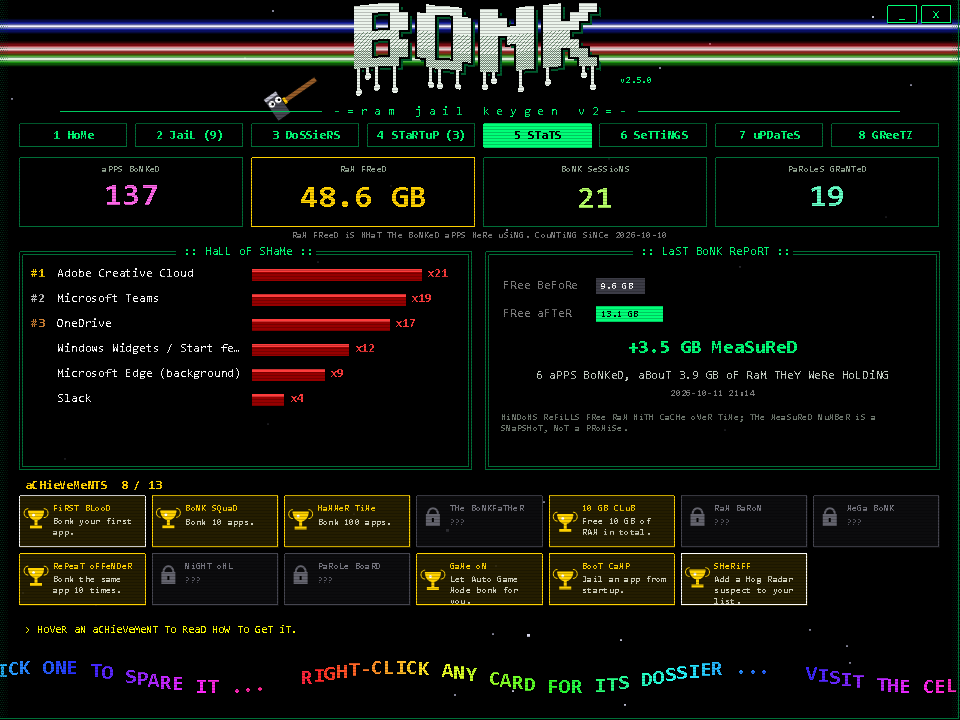
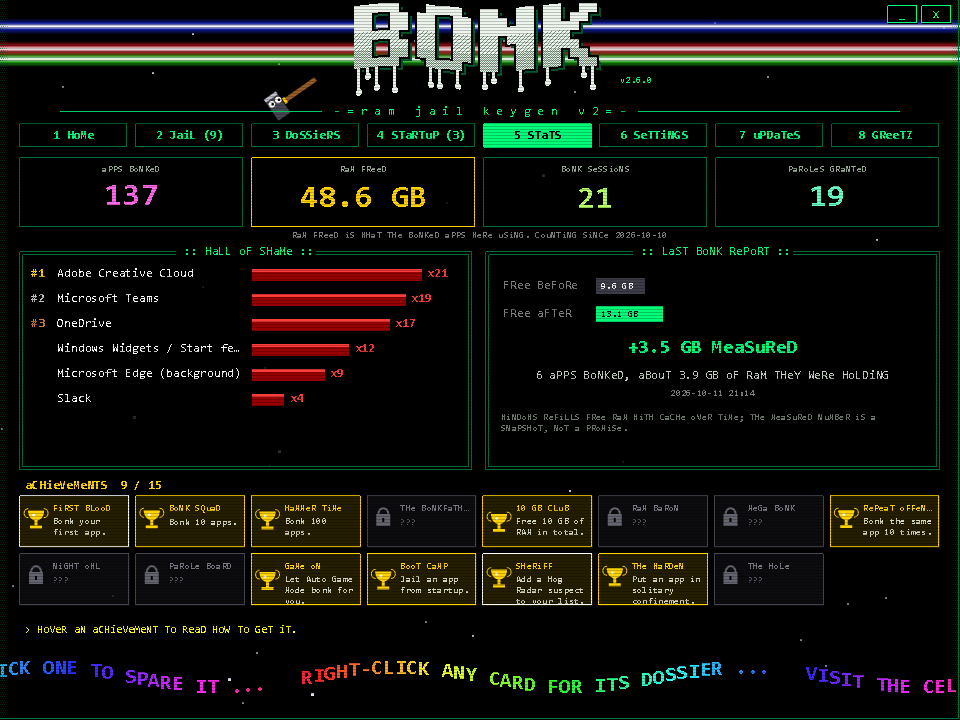
v2.6.0: Solitary Confinement
Keep self-restarting apps down.

- 3 second jail watch: a jailed app that is running again is an escape.
  Entries with solitary=true are killed again and the attempt is counted in
  bonk-state.json; others raise a one-time JAILBREAK notice.
- Parent-process check: if Explorer launched it (user opened it), it is a
  voluntary parole and left running.
- Dark solitary cells, SOLO toggles on cells and in dossiers, siren + banner,
  THE WARDEN / THE HOLE achievements, solitary setting.
- Verified on an isolated copy: background respawn killed within one tick and
  counted; Explorer launch paroled and left running.

Changed region(s): [[0.0312, 0.6722, 0.8438, 0.8556], [0.8438, 0.7028, 0.9688, 0.7639]]

diff --git a/bonk-ui.cs b/bonk-ui.cs
@@ -335,6 +335,14 @@ namespace BonkMode
             return ToPcm(b, 0.66f);
         }
 
+        public static short[] Alarm()
+        {
+            int half = (int)(R * 0.16);
+            float[] b = new float[half * 4];
+            for (int k = 0; k < 4; k++) Square(b, k * half, half, k % 2 == 0 ? 880 : 660, 0.5, 0.18, false);
+            return ToPcm(b, 0.45f);
+        }
+
         public static short[] Fanfare()
         {
             int[] notes = { 67, 72, 76, 79, 76, 79, 84 };
@@ -411,7 +419,8 @@ namespace BonkMode
     {
         public string Label, Names, Relaunch;
         public int MB, Procs, Hash, Number, Cpu10, IoKB;
-        public bool Enabled, Running, Jailed, Suspect;
+        public bool Enabled, Running, Jailed, Suspect, Solitary;
+        public int Escapes;
         public string Proc;
         public RectangleF Rect;
         public float Shake, Flash, Bars, ShownMB, Nervous;
@@ -463,6 +472,7 @@ namespace BonkMode
         public event Action GameCancelClicked;
         public event Action<string, string> SuspectAction;
         public event Action<string, bool> StartupToggle;
+        public event Action<string, bool> SolitaryToggled;
         public event Action StartupRefresh;
 
         public static bool NoAudio;
@@ -508,6 +518,7 @@ namespace BonkMode
             new[] { "powerPlan", "bool", "Turbo power plan", "Switch Windows to High performance while bonked; your old plan comes back on parole." },
             new[] { "radar", "bool", "Hog radar", "Flag heavy apps that are not on your list yet. Sweeps every 30 seconds." },
             new[] { "radarMB", "cycle:200,400,800,1500", "Radar threshold", "How much RAM an unlisted app needs before it becomes a suspect." },
+            new[] { "solitary", "bool", "Solitary confinement", "Jailed apps marked SOLO get shut straight back down if they restart themselves. If you open one yourself, it's paroled instead." },
             new[] { "hotkeys", "bool", "Global hotkeys", "Ctrl+Alt+B bonks, Ctrl+Alt+P paroles, Ctrl+Alt+K opens this window. Works inside games." },
             new[] { "autostart", "bool", "Start with Windows", "Put the hammer in the tray at login." },
             new[] { "autoUpdate", "bool", "Check for updates", "Look for a new release on GitHub when this opens and every 6h." }
@@ -530,7 +541,7 @@ namespace BonkMode
         List<Hit> zones = new List<Hit>(), zonesNext = new List<Hit>();
 
         ChipAudio audio;
-        short[] sfxBonk, sfxClick, sfxBlip, sfxWhoosh, sfxParole, sfxSlam, sfxFanfare;
+        short[] sfxBonk, sfxClick, sfxBlip, sfxWhoosh, sfxParole, sfxSlam, sfxFanfare, sfxAlarm;
         Bitmap logo, overlay, frame, bricks, plasma;
         Font fSmall, fTiny, fName, fTileBig, fNfo, fNfoB, fBtn, fScroll, fBanner, fPop, fSub, fBig, fCount;
         StringFormat sfCenter, sfWrap, sfLeftMid;
@@ -615,11 +626,11 @@ namespace BonkMode
             settings["music"] = "True"; settings["volume"] = "60"; settings["sfx"] = "True"; settings["shake"] = "True";
             settings["scanlines"] = "True"; settings["hammer"] = "normal"; settings["polite"] = "4";
             settings["autostart"] = "False"; settings["autoUpdate"] = "True";
-            settings["gameMode"] = "ask"; settings["radar"] = "True"; settings["radarMB"] = "400"; settings["profile"] = "gaming"; settings["powerPlan"] = "False"; settings["hotkeys"] = "True";
+            settings["gameMode"] = "ask"; settings["radar"] = "True"; settings["radarMB"] = "400"; settings["profile"] = "gaming"; settings["powerPlan"] = "False"; settings["hotkeys"] = "True"; settings["solitary"] = "True";
 
             if (!NoAudio) { try { audio = new ChipAudio(); } catch { audio = null; } }
             sfxBonk = Synth.Bonk(); sfxClick = Synth.Click(); sfxBlip = Synth.Blip(); sfxWhoosh = Synth.Whoosh();
-            sfxParole = Synth.Parole(); sfxSlam = Synth.Slam(); sfxFanfare = Synth.Fanfare();
+            sfxParole = Synth.Parole(); sfxSlam = Synth.Slam(); sfxFanfare = Synth.Fanfare(); sfxAlarm = Synth.Alarm();
             ReadRam();
 
             timer.Interval = 30;
@@ -681,9 +692,9 @@ namespace BonkMode
 
         public void PreviewUpdate(string remote, string log) { FinishCheck(remote, log, null); }
 
-        public void SetApps(string[] labels, int[] mb, bool[] enabled, bool[] running, bool[] jailed, int[] procs, string[] names, string[] relaunch, int[] cpu10, int[] iokb)
+        public void SetApps(string[] labels, int[] mb, bool[] enabled, bool[] running, bool[] jailed, int[] procs, string[] names, string[] relaunch, int[] cpu10, int[] iokb, bool[] solitary, int[] escapes)
         {
-            if (hammerIdx >= 0) { pending = new object[] { labels, mb, enabled, running, jailed, procs, names, relaunch, cpu10, iokb }; return; }
+            if (hammerIdx >= 0) { pending = new object[] { labels, mb, enabled, running, jailed, procs, names, relaunch, cpu10, iokb, solitary, escapes }; return; }
             Dictionary<string, AppInfo> old = new Dictionary<string, AppInfo>();
             foreach (AppInfo x in apps) old[x.Label] = x;
             apps.Clear();
@@ -700,7 +711,9 @@ namespace BonkMode
                 a.MB = mb[i]; a.Enabled = enabled[i]; a.Running = running[i];
                 a.Jailed = jailed[i] && !running[i];
                 a.Procs = procs[i]; a.Names = names[i]; a.Relaunch = relaunch[i];
-                a.Cpu10 = cpu10[i]; a.IoKB = iokb[i];
+                a.Cpu10 = cpu10[i]; a.IoKB = iokb[i]; a.Solitary = solitary[i];
+                if (old.ContainsKey(labels[i]) && escapes[i] > a.Escapes) EscapeFoiled(a);
+                a.Escapes = escapes[i];
                 if (a.Running)
                 {
                     a.History.Add(a.MB); if (a.History.Count > 72) a.History.RemoveAt(0);
@@ -773,7 +786,8 @@ namespace BonkMode
                 }
                 m.BubbleT -= fdt; m.NextBubble -= fdt;
                 if (m.NextBubble <= 0) { m.Bubble = Bubbles[rnd.Next(Bubbles.Length)]; m.BubbleT = 2.4f; m.NextBubble = 5 + (float)rnd.NextDouble() * 9; }
-                if (m.BubbleT <= 0)
+                if (m.BubbleT <= 0 && m.App.Solitary) { m.X += (130 - m.X) * (float)Math.Min(1, dt * 2); }
+                else if (m.BubbleT <= 0)
                 {
                     m.X += m.Dir * m.Speed * fdt; m.Walk += fdt * 9;
                     if (m.X < 22) { m.X = 22; m.Dir = 1; }
@@ -812,7 +826,7 @@ namespace BonkMode
             if (pending != null)
             {
                 object[] p = pending; pending = null;
-                SetApps((string[])p[0], (int[])p[1], (bool[])p[2], (bool[])p[3], (bool[])p[4], (int[])p[5], (string[])p[6], (string[])p[7], (int[])p[8], (int[])p[9]);
+                SetApps((string[])p[0], (int[])p[1], (bool[])p[2], (bool[])p[3], (bool[])p[4], (int[])p[5], (string[])p[6], (string[])p[7], (int[])p[8], (int[])p[9], (bool[])p[10], (int[])p[11]);
             }
             else { SyncInmates(); LayoutHome(); }
         }
@@ -846,6 +860,17 @@ namespace BonkMode
             }
             if (fresh) { radarPing = 0; Play(sfxBlip); }
             if (hammerIdx < 0) LayoutHome();
+        }
+
+        void EscapeFoiled(AppInfo a)
+        {
+            Play(sfxAlarm);
+            if (shakeOn) shake = Math.Max(shake, 0.5f);
+            bannerText = a.Solitary ? "eSCaPe FoiLeD!" : "JaiLBReaK!";
+            bannerSub = Leet(a.Solitary ? a.Label + " tried to sneak out. back in the hole." : a.Label + " restarted itself. mark it solo to stop that.");
+            bannerT = 0;
+            Inmate m;
+            if (inmates.TryGetValue(a.Label, out m)) { m.Bubble = a.Solitary ? "BaCK iN THe HoLe..." : "i'M ouT!"; m.BubbleT = 3; }
         }
 
         AppInfo Find(string label)
@@ -1229,6 +1254,17 @@ namespace BonkMode
                 return;
             }
             if (id == "startup-refresh") { Play(sfxBlip); if (StartupRefresh != null) StartupRefresh(); return; }
+            if (id.StartsWith("solitary:"))
+            {
+                AppInfo a = Find(id.Substring(9));
+                if (a == null) return;
+                a.Solitary = !a.Solitary;
+                Play(a.Solitary ? sfxSlam : sfxClick);
+                if (a.Solitary && shakeOn) shake = 0.3f;
+                status = Leet(a.Solitary ? a.Label + " is in solitary. no more sneaking back." : a.Label + " is back in a normal cell.");
+                if (SolitaryToggled != null) SolitaryToggled(a.Label, a.Solitary);
+                return;
+            }
             if (id.StartsWith("startup:"))
             {
                 if (Busy) return;
@@ -1626,7 +1662,7 @@ namespace BonkMode
 
             if (a.Bars > 0) DrawBars(g, r, a.Bars);
 
-            string chip = jailed ? "JaiLeD" : target ? "TaRGeT" : "SaFe";
+            string chip = jailed ? (a.Solitary ? "SoLiTaRY" : "JaiLeD") : target ? "TaRGeT" : "SaFe";
             Color cc = jailed ? Color.FromArgb(170, 170, 185) : target ? Red : Green;
             SizeF cs = g.MeasureString(chip, fTiny);
             g.FillRectangle(B(cc), r.X + 5, r.Y + 5, cs.Width, 13);
@@ -1777,6 +1813,16 @@ namespace BonkMode
         {
             AppInfo a = m.App;
             g.DrawImage(bricks, cx, cy, cw, 120);
+            if (a.Solitary)
+            {
+                // the hole: lights almost out, one flickering bulb
+                g.FillRectangle(B(Color.FromArgb(232, 4, 2, 2)), cx, cy, cw, 120);
+                g.DrawString("S O L i T a R Y", fTiny, B(Color.FromArgb(120, 150, 20, 20)), new RectangleF(cx, cy + 62, cw, 14), sfCenter);
+                int glow = (int)(t * 7 + a.Hash) % 9 == 0 ? 40 : 110;
+                g.FillEllipse(B(Color.FromArgb(glow / 3, 255, 220, 120)), cx + cw / 2 - 30, cy + 2, 60, 50);
+                g.FillEllipse(B(Color.FromArgb(glow + 100, 255, 230, 140)), cx + cw / 2 - 4, cy + 8, 8, 8);
+                g.DrawLine(P(Color.FromArgb(80, 80, 80)), cx + cw / 2, cy, cx + cw / 2, cy + 8);
+            }
             g.FillRectangle(B(Color.FromArgb(40, 40, 46)), cx, cy + 104, cw, 16);
             // cot and bucket, for ambience
             g.FillRectangle(B(Color.FromArgb(90, 70, 50)), cx + 110, cy + 92, 52, 8);
@@ -1814,7 +1860,14 @@ namespace BonkMode
             g.DrawRectangle(P(Color.FromArgb(150, 70, 70)), cx, py, cw - 1, 73);
             g.DrawString("iNMaTe #" + a.Number, fTiny, B(Gold), cx + 5, py + 3);
             g.DrawString(a.Label, fName, Brushes.White, new RectangleF(cx + 5, py + 15, cw - 10, 28), sfWrap);
-            g.DrawString(Crimes[a.Hash % Crimes.Length], fTiny, B(Color.FromArgb(160, 160, 170)), new RectangleF(cx + 5, py + 42, cw - 10, 12), sfLeftMid);
+            if (a.Solitary) g.DrawString(Leet("solitary :: " + a.Escapes + " escape attempts"), fTiny, B(Red), new RectangleF(cx + 5, py + 42, cw - 10, 12), sfLeftMid);
+            else g.DrawString(Crimes[a.Hash % Crimes.Length], fTiny, B(Color.FromArgb(160, 160, 170)), new RectangleF(cx + 5, py + 42, cw - 10, 12), sfLeftMid);
+            RectangleF solo = new RectangleF(cx + cw - 46, py + 2, 42, 13);
+            bool soloHot = Hot("solitary:" + a.Label);
+            g.FillRectangle(B(a.Solitary ? Red : soloHot ? Color.FromArgb(90, 20, 20) : Color.FromArgb(30, 30, 36)), solo);
+            g.DrawString("SoLo", fTiny, B(a.Solitary ? Color.Black : Color.FromArgb(220, 120, 120)), solo, sfCenter);
+            RectangleF soloVis = RectangleF.Intersect(solo, area);
+            if (soloVis.Height > 4 && !m.Escaping) Zone(soloVis, "solitary:" + a.Label);
             RectangleF br = new RectangleF(cx + 30, py + 55, cw - 60, 16);
             bool can = !Busy && !m.Escaping;
             bool hot = can && Hot("paroleone:" + a.Label);
@@ -1990,6 +2043,7 @@ namespace BonkMode
             fy = Field(g, "STaTuS", stat, fx, fy, wText, s.Running ? Green : Color.Gray);
             fy = Field(g, "SeNTeNCe", sentence, fx, fy, wText, s.Enabled ? Red : Green);
             fy = Field(g, "RaM NoW", s.Running ? FormatSize(s.MB) : "0 MB", fx, fy, wText, Color.Yellow);
+            if (s.Jailed || s.Escapes > 0 || s.Solitary) fy = Field(g, "eSCaPe aTTeMPTS", s.Escapes + (s.Solitary ? "  ::  iN SoLiTaRY" : ""), fx, fy, wText, s.Solitary ? Red : Color.FromArgb(200, 210, 200));
             fy = Field(g, "CPU / DiSK", s.Running ? FormatCpu(s.Cpu10) + " oF YouR CPU  ::  " + FormatIo(s.IoKB) + " DiSK" : "-", fx, fy, wText, s.Cpu10 >= 80 ? Color.FromArgb(255, 150, 60) : Color.FromArgb(200, 210, 200));
             fy = Math.Max(fy, mug.Bottom + 6);
             fy = Field(g, "aLiaSeS", s.Names, fx, fy, panel.Width - 32, Color.FromArgb(200, 210, 200));
@@ -2023,9 +2077,10 @@ namespace BonkMode
 
             float by2 = panel.Bottom - 40;
             bool free = !Busy;
-            Button(g, new RectangleF(panel.X + 16, by2, 132, 28), s.Enabled ? "[ SPaRe iT ]" : "[ SeNTeNCe ]", "toggle:" + s.Label, Color.FromArgb(0, 40, 20), Green, free && !s.Jailed);
-            Button(g, new RectangleF(panel.X + 156, by2, 132, 28), "[ BoNK NoW ]", "bonkone:" + s.Label, Color.FromArgb(120, 0, 0), Color.Yellow, free && s.Running && !s.Jailed);
-            Button(g, new RectangleF(panel.X + 296, by2, 142, 28), "[ PaRoLe ]", "paroleone:" + s.Label, Color.FromArgb(0, 40, 20), Green, free && s.Jailed);
+            Button(g, new RectangleF(panel.X + 16, by2, 100, 28), s.Enabled ? "SPaRe" : "SeNTeNCe", "toggle:" + s.Label, Color.FromArgb(0, 40, 20), Green, free && !s.Jailed);
+            Button(g, new RectangleF(panel.X + 122, by2, 100, 28), "BoNK!", "bonkone:" + s.Label, Color.FromArgb(120, 0, 0), Color.Yellow, free && s.Running && !s.Jailed);
+            Button(g, new RectangleF(panel.X + 228, by2, 100, 28), "PaRoLe", "paroleone:" + s.Label, Color.FromArgb(0, 40, 20), Green, free && s.Jailed);
+            Button(g, new RectangleF(panel.X + 334, by2, 104, 28), s.Solitary ? "SoLo: oN" : "SoLo: oFF", "solitary:" + s.Label, s.Solitary ? Color.FromArgb(120, 0, 0) : Color.FromArgb(40, 10, 10), Color.FromArgb(255, 110, 110), true);
         }
 
         float Field(Graphics g, string key, string value, float x, float y, float w, Color c)
@@ -2183,7 +2238,7 @@ namespace BonkMode
             int n2 = achNames.Length, unlocked = 0;
             foreach (bool b in achOn) if (b) unlocked++;
             g.DrawString("aCHieVeMeNTS  " + unlocked + " / " + n2, fNfoB, B(Gold), 24, 478);
-            const int cols = 7;
+            const int cols = 8;
             float aw = (920 - (cols - 1) * 6) / (float)cols;
             for (int i = 0; i < n2; i++)
             {

diff --git a/README.md b/README.md
@@ -84,7 +84,9 @@ The radar never suggests Windows itself, shared engines other apps run on (like 
 
 Every jailed app becomes a **striped inmate** with its initials on its shirt, pacing its cell. They grab the bars and yell things like *"I JUST WANTED TO SYNC!"* and *"CALL MY LAWYER!"* Each has an inmate number and a crime: *"opened a what's-new popup mid-raid"*, *"loitering in the system tray"*, *"resisting closure (X just minimizes)"*.
 
-Click **[PAROLE]** under one cell and that inmate's bars slide open and it sprints off screen. A warden hammer patrols the corridor. If the jail is empty, a tumbleweed rolls by.
+Click **[PAROLE]** under one cell and that inmate's bars slide open and it sprints off screen.
+
+**Solitary confinement:** some apps restart themselves after a bonk (watchdogs, updaters, helper services). Flip their cell to **SOLO** and they get shut straight back down within 3 seconds, with every escape attempt counted on their plate, a siren, and an **ESCAPE FOILED!** banner. Solitary cells are pitch dark with one flickering bulb. And if *you* open a jailed app yourself from the Start menu or taskbar, Bonk Mode sees that and paroles it instead of fighting you. A warden hammer patrols the corridor. If the jail is empty, a tumbleweed rolls by.
 
 ### 3 · DOSSIERS: the rap sheet
 
@@ -104,7 +106,7 @@ It flips Windows' own StartupApproved switch, the same one Task Manager's Startu
 
 ![Stats](screenshots/stats.png)
 
-Lifetime counters (apps bonked, RAM freed, bonk sessions, paroles), a **Hall of Shame** ranking your repeat offenders, and a before/after report of your free RAM for the last bonk. Plus **13 achievements**, from **FIRST BLOOD** to **THE BONKFATHER** (bonk 1,000 apps). Unlocking one gets you a banner and a fanfare. Some are secret until you earn them.
+Lifetime counters (apps bonked, RAM freed, bonk sessions, paroles), a **Hall of Shame** ranking your repeat offenders, and a before/after report of your free RAM for the last bonk. Plus **15 achievements**, from **FIRST BLOOD** to **THE BONKFATHER** (bonk 1,000 apps). Unlocking one gets you a banner and a fanfare. Some are secret until you earn them.
 
 ### 6 · SETTINGS
 
@@ -197,6 +199,7 @@ Everything is inside the app on screen **6**, and every change saves instantly.
 | Turbo power plan | Off by default. High performance while bonked, your own plan back on parole. A crash can't strand you on it. |
 | Hog radar | Flag heavy apps (RAM or 10%+ CPU) that aren't on your list. |
 | Radar threshold | 200, 400, 800 or 1500 MB before an app becomes a suspect. |
+| Solitary confinement | Jailed apps marked SOLO get shut back down if they restart themselves. |
 | Global hotkeys | Ctrl+Alt+B / P / K, working inside games. |
 | Start with Windows | Hammer in the tray at login. |
 | Check for updates | Looks for a new release on GitHub on open and every 6 hours. |
@@ -261,6 +264,10 @@ None of these close anything:
 ---
 
 ## 📜 Version history
+
+### v2.6.0 · Solitary Confinement
+- Mark a jailed app SOLO and it gets shut straight back down whenever it restarts itself, with escape attempts counted.
+- Opening a jailed app yourself paroles it instead. Dark solitary cells, a siren, two new achievements.
 
 ### v2.5.0 · Hotkeys, Stream Deck and stats
 - Global hotkeys (Ctrl+Alt+B / P / K) that work inside games.

diff --git a/CHANGELOG.md b/CHANGELOG.md
@@ -1,5 +1,14 @@
 # Bonk Mode changelog
 
+## v2.6.0 - Solitary Confinement
+- Some apps restart themselves after a bonk (watchdogs, updaters, helper services). Mark them SOLO and they get shut straight back down within 3 seconds, every time, with every escape attempt counted.
+- If you open a jailed app yourself (Start menu, taskbar, desktop), Bonk Mode sees Explorer started it and paroles it instead of fighting you.
+- Apps that break out without SOLO raise a JAILBREAK notice once, suggesting solitary.
+- Solitary cells in the cell block are pitch dark with one flickering bulb; the inmate sulks in the corner. Each plate shows its escape attempts. SOLO toggles on every cell and in the dossier.
+- A siren and an ESCAPE FOILED! banner when a breakout is caught.
+- Two new achievements: THE WARDEN and THE HOLE (foil 10 escapes). 15 in total.
+- Setting: Solitary confinement on/off.
+
 ## v2.5.0 - Hotkeys, Stream Deck and Stats
 - Global hotkeys that work inside games: Ctrl+Alt+B bonks, Ctrl+Alt+P paroles, Ctrl+Alt+K opens the keygen. Toggle them in Settings.
 - Remote control: bonk-mode.ps1 -Bonk, -Parole and -SetProfile <name> act on the running tray (and start it if needed). The installer adds BONK NOW and Parole shortcuts to the Start Menu, which make perfect Stream Deck buttons.

diff --git a/ROADMAP.md b/ROADMAP.md
@@ -17,11 +17,11 @@ This is the plan, not a promise. Order may change. Ideas welcome in [Issues](htt
 | v2.3.0 | Startup Jail | Stop apps from launching at login, fully reversible |
 | v2.4.0 | Profiles, CPU and disk | Gaming/streaming/work/battery profiles, CPU hogs, turbo power plan |
 | v2.5.0 | Hotkeys, Stream Deck and stats | Ctrl+Alt+B, remote control, Hall of Shame, achievements |
+| v2.6.0 | Solitary Confinement | Apps that restart themselves get thrown straight back in |
 
 ## 🔜 Next up
 
-### v2.6.0 · Solitary Confinement
-Apps that sneak back up after a bonk get thrown straight back in, and you'll see how many escape attempts they made.
+Everything on the original plan has shipped. Ideas for what comes next are welcome in Issues.
 
 ## 💭 Someday maybe
 - Digitally signed releases with a signature-checking updater
